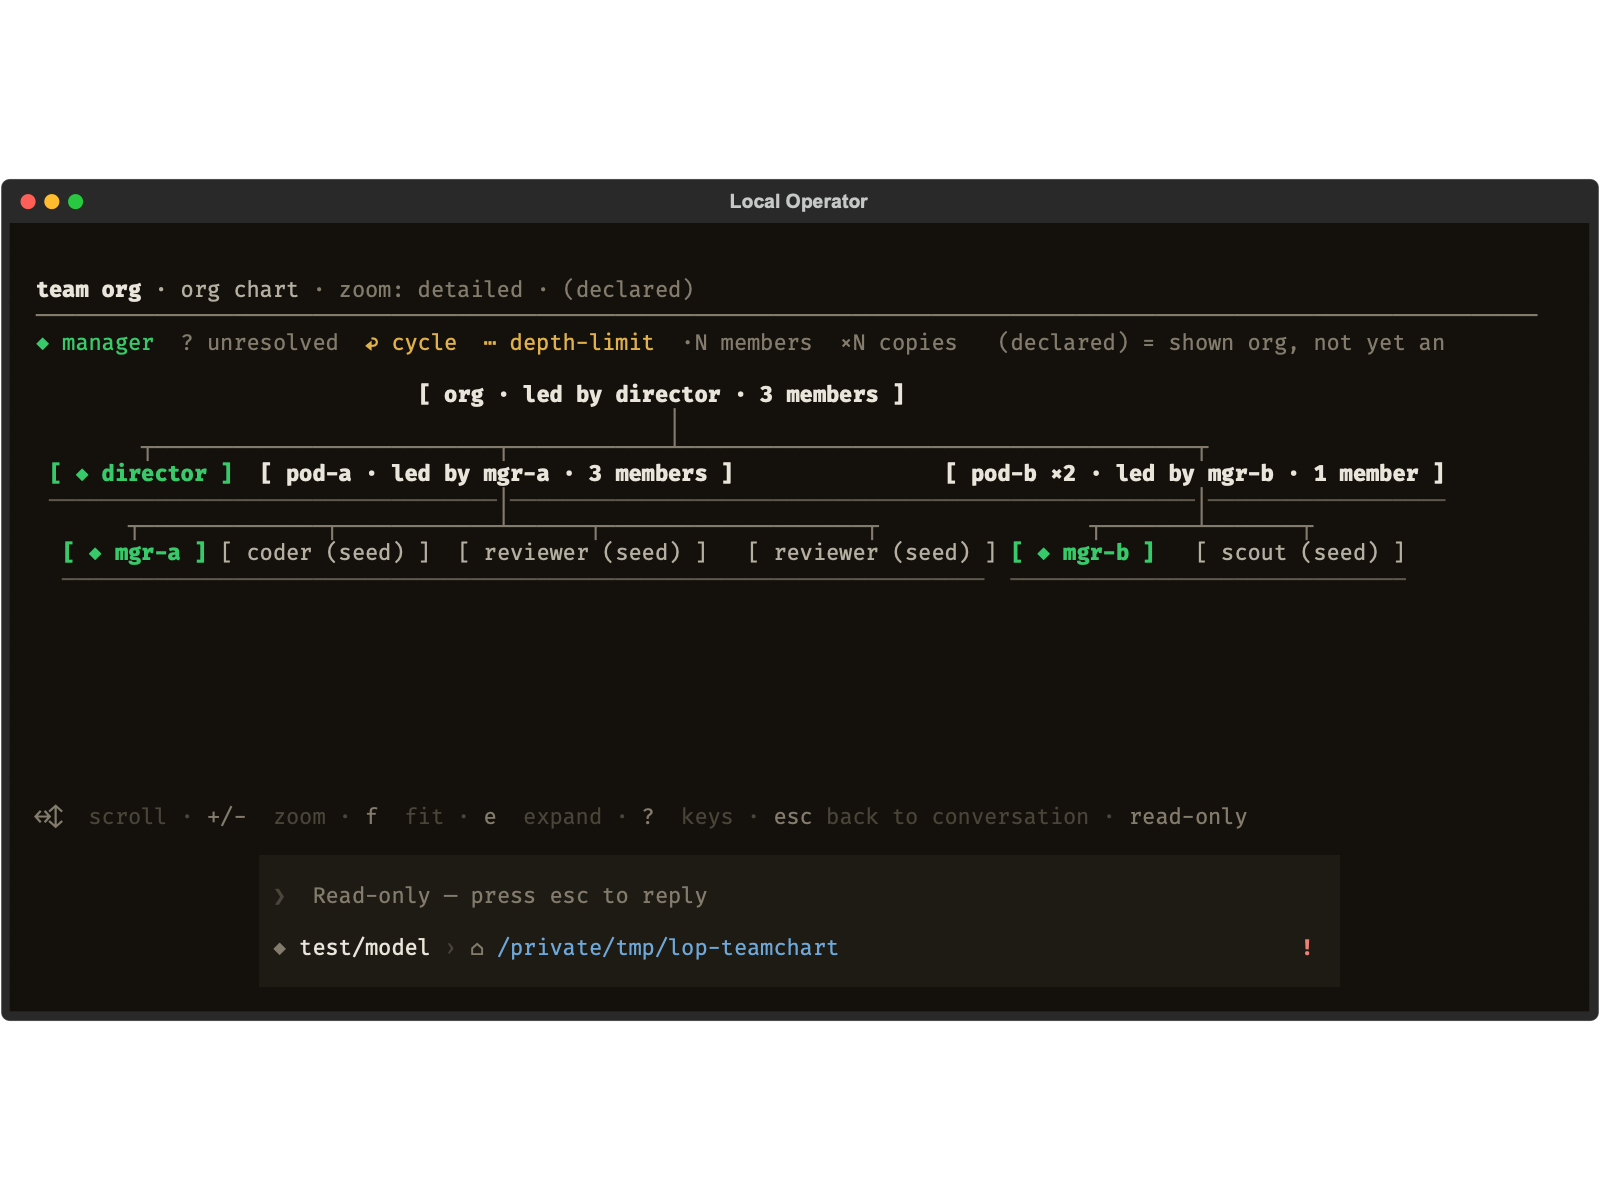
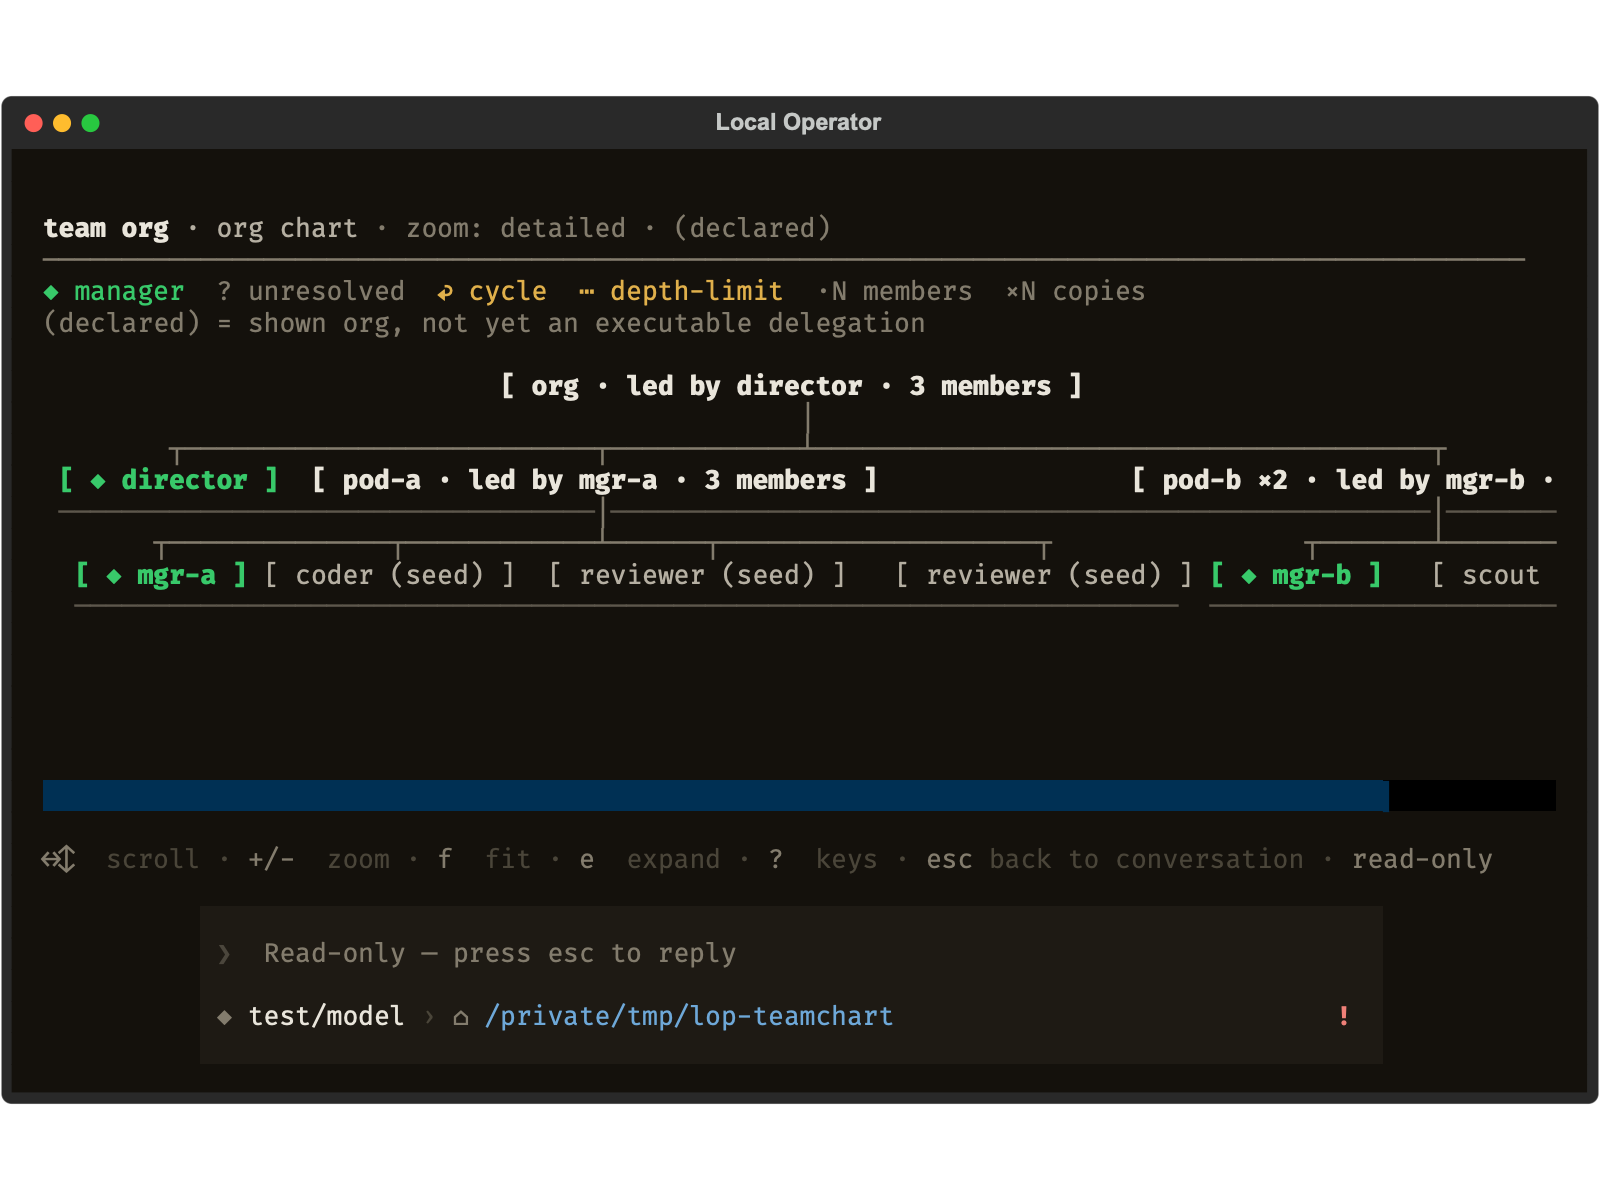
fix(team-chart): Home/End reach true corners, split legend so gloss fits
Round-2 review follow-ups for PR #258 (both TERMINAL/clean rounds, taken
before merge because U10 was a factually-wrong code comment).

U10: Home/End used Textual's scroll_home/scroll_end, but on this Textual
(8.2.8) scroll_end passes x=0 (its "end" is bottom-LEFT) — so End on a
wide-only chart (max_scroll_y=0) was a no-op, never the right edge, and the
comment claimed the opposite. Now use explicit scroll_to(x=max_scroll_x,
y=max_scroll_y) for End and scroll_to(x=0,y=0) for Home, with comments that
describe what the code actually does. Verified: End reaches x=58 on the wide
team, Home returns to 0. New test test_end_jumps_to_the_right_edge_on_a_wide_chart.

U11/D7: the (declared) legend gloss ellipsis-clipped at <=100 cols (glyphs 70
cells + gloss 56 = 129 on one line). Split the legend into two rows — glyph
vocabulary on the first, the (declared) gloss on the second — so nothing
essential truncates at a standard terminal. Legend height -> auto for the
second row. Re-viewed at 100 cols: full gloss readable.

diff --git a/local_operator/tui/widgets/org_chart_view.py b/local_operator/tui/widgets/org_chart_view.py
@@ -303,6 +303,11 @@ class OrgChartView(Vertical):
         # the resting layout is unchanged.
         self._legend.display = self._legend_open
         if self._legend_open:
+            # TWO rows (D7): the glyph vocabulary is 70 cells and the (declared)
+            # gloss is 56 — on one line they total 129 and the gloss, the very
+            # thing U6 added to explain the tag, was the part ellipsis-clipped at
+            # ≤~128 cols. Splitting them keeps each row well under a standard
+            # 100-col terminal, so nothing essential is ever truncated.
             legend = Text(no_wrap=True, overflow="ellipsis")
             legend.append("◆ manager", style=Style(color=theme_mod.semantic_color("accent")))
             for glyph, meaning in (
@@ -317,10 +322,10 @@ class OrgChartView(Vertical):
                     Style(color=theme_mod.semantic_color("warning")) if meaning == "marker" else dim
                 )
                 legend.append(glyph, style=style)
-            # (declared) gloss (U6): name what the tag means in-mode rather than
-            # relying on the guide.
+            # (declared) gloss (U6) on its OWN row so it always reads in full.
+            legend.append("\n", style=dim)
             legend.append(
-                "   (declared) = shown org, not yet an executable delegation",
+                "(declared) = shown org, not yet an executable delegation",
                 style=dim,
             )
             self._legend.update(legend)
@@ -519,16 +524,27 @@ class OrgChartView(Vertical):
         self._body.scroll_page_right()
 
     def action_scroll_home(self) -> None:
-        # Jump to the top-LEFT corner (both axes), so a wide-scrolled reader
-        # returns to the root box in one key rather than paging back.
-        self._body.scroll_home()
+        # Jump to the top-LEFT corner, so a wide-scrolled reader returns to the
+        # root box in one key. Explicit x=0,y=0 rather than ``scroll_home``:
+        # Textual's ``scroll_home`` only resets the Y axis unless ``x`` is
+        # passed, so on a wide-scrolled chart it would leave the reader off to
+        # the right. ``scroll_to`` pins BOTH axes to the origin.
+        self._body.scroll_to(x=0, y=0, animate=False)
 
     def action_scroll_end(self) -> None:
-        # Jump to the bottom-RIGHT corner (both axes). On a chart with no
-        # vertical travel this is the only keyboard jump to the right edge —
-        # the axis that overflows (U4). ``scroll_end`` moves both x and y to
-        # their maxima, so it clamps to the far-right column.
-        self._body.scroll_end()
+        # Jump to the bottom-RIGHT corner — the wide axis is the one that
+        # overflows (U4), so this is the keyboard jump to the right edge even
+        # when there is no vertical travel. Explicit maxima via ``scroll_to``,
+        # NOT ``scroll_end``: on this Textual (8.2.8) ``scroll_end`` passes x=0
+        # (its "end" is the bottom-LEFT), so on a wide-only chart it was a
+        # no-op — never the right edge. Pinning ``max_scroll_x``/``max_scroll_y``
+        # reaches the true far corner; the container clamps each to its own
+        # travel, so an axis with no overflow simply stays at 0.
+        self._body.scroll_to(
+            x=self._body.max_scroll_x,
+            y=self._body.max_scroll_y,
+            animate=False,
+        )
 
     # -- leaving ------------------------------------------------------------
     def action_leave(self) -> None:

diff --git a/tests/unit/tui/test_team_chart.py b/tests/unit/tui/test_team_chart.py
@@ -318,6 +318,45 @@ async def test_wide_org_scrolls_the_body_not_the_screen() -> None:
 
 
 @pytest.mark.asyncio
+async def test_end_jumps_to_the_right_edge_on_a_wide_chart() -> None:
+    """U10 — `End` reaches the far-right column even with no vertical travel.
+
+    On a wide flat team the chart overflows only the X axis (max_scroll_y == 0).
+    Textual's `scroll_end` passes x=0 there (its "end" is bottom-LEFT), so it was
+    a no-op — the fix pins max_scroll_x/max_scroll_y explicitly. `Home` returns
+    to the origin, `End` reaches the right edge, both in one press.
+    """
+
+    session = FakeSession()
+    session.team_registry = _registry(
+        TeamEditFields(
+            name="wide",
+            manager="boss",
+            members=[TeamMember(role=f"m{i}") for i in range(12)],
+        )
+    )
+    app = OperatorApp(lambda: _factory(session))
+    async with app.run_test(size=(80, 24)) as pilot:
+        await _boot(pilot, app)
+        app._open_org_chart_view("wide")
+        await pilot.pause()
+        await pilot.pause()
+        view = app._org_chart_view
+        assert view is not None
+        # Wide-only overflow: the X axis has travel, the Y axis does not.
+        assert view._body.max_scroll_x > 0
+        assert view._body.max_scroll_y == 0
+        # End jumps to the far-right column (the axis that overflows).
+        await pilot.press("end")
+        await pilot.pause()
+        assert view._body.scroll_offset.x == view._body.max_scroll_x
+        # Home returns to the origin.
+        await pilot.press("home")
+        await pilot.pause()
+        assert view._body.scroll_offset.x == 0
+
+
+@pytest.mark.asyncio
 async def test_zoom_keys_change_the_tier() -> None:
     session = FakeSession()
     session.team_registry = _nested_registry()
